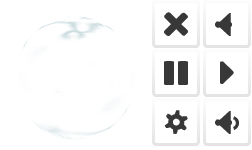
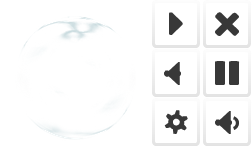
0.4.6 解决了按钮无法点击的问题

diff --git a/bin/js/ui/layaUI.max.all.js b/bin/js/ui/layaUI.max.all.js
@@ -22,7 +22,7 @@ var ui;
             _super.prototype.createChildren.call(this);
             this.createView(ui.EndViewUI.uiView);
         };
-        EndViewUI.uiView = { "type": "View", "props": { "y": 0, "x": 0, "width": 800, "height": 600 }, "child": [{ "type": "Image", "props": { "y": 0, "x": 0, "width": 800, "var": "backgroundView", "skin": "ui/background/EndBackGround.jpg", "height": 600 }, "child": [{ "type": "Box", "props": { "y": 150, "x": 250, "width": 300, "visible": false, "var": "scoreView", "height": 60 }, "child": [{ "type": "Clip", "props": { "y": 16, "x": 246, "width": 30, "skin": "ui/else/clip_number.png", "name": "item3", "height": 40, "clipX": 10 } }, { "type": "Clip", "props": { "y": 16, "x": 202, "width": 30, "skin": "ui/else/clip_number.png", "name": "item2", "height": 40, "clipX": 10 } }, { "type": "Clip", "props": { "y": 16, "x": 157, "width": 30, "skin": "ui/else/clip_number.png", "name": "item1", "index": 0, "height": 40, "clipX": 10 } }, { "type": "Text", "props": { "y": 15, "x": 0, "width": 150, "valign": "middle", "text": "Score:", "height": 40, "fontSize": 40, "font": "SimSun", "color": "#ffff00", "bold": true, "alpha": 0.7, "align": "left" } }] }, { "type": "Image", "props": { "y": 308, "x": 60, "width": 100, "var": "startButton", "skin": "ui/button/SelectButton.png", "height": 100, "alpha": 1 }, "child": [{ "type": "Text", "props": { "y": 23, "x": 24, "width": 50, "text": "始", "strokeColor": "#000000", "overflow": "hidden", "height": 50, "fontSize": 40, "font": "Microsoft YaHei", "color": "#ffffff", "bold": true, "align": "center" } }] }, { "type": "Image", "props": { "y": 451, "x": 61, "width": 100, "var": "rankButton", "skin": "ui/button/SelectButton.png", "height": 100 }, "child": [{ "type": "Text", "props": { "y": 26, "x": 24, "width": 50, "text": "排", "overflow": "hidden", "height": 50, "fontSize": 40, "font": "Microsoft YaHei", "color": "#ffffff", "bold": true, "align": "center" } }] }] }] };
+        EndViewUI.uiView = { "type": "View", "props": { "y": 0, "x": 0, "width": 800, "height": 600 }, "child": [{ "type": "Image", "props": { "y": 0, "x": 0, "width": 800, "var": "backgroundView", "skin": "ui/background/EndBackGround.jpg", "mouseThrough": true, "height": 600, "disabled": false }, "child": [{ "type": "Image", "props": { "y": 430, "x": 50, "width": 100, "visible": true, "var": "rankButton", "skin": "ui/button/SelectButton.png", "mouseEnabled": true, "hitTestPrior": true, "height": 100, "disabled": false }, "child": [{ "type": "Text", "props": { "y": 26, "x": 24, "width": 50, "text": "排", "overflow": "hidden", "height": 50, "fontSize": 40, "font": "Microsoft YaHei", "color": "#ffffff", "bold": true, "align": "center" } }] }, { "type": "Image", "props": { "y": 300, "x": 50, "width": 100, "visible": true, "var": "startButton", "skin": "ui/button/SelectButton.png", "mouseEnabled": true, "hitTestPrior": true, "height": 100, "disabled": false, "alpha": 1 }, "child": [{ "type": "Text", "props": { "y": 23, "x": 24, "width": 50, "text": "始", "strokeColor": "#000000", "overflow": "hidden", "height": 50, "fontSize": 40, "font": "Microsoft YaHei", "color": "#ffffff", "bold": true, "align": "center" } }] }, { "type": "Box", "props": { "y": 150, "x": 250, "width": 300, "visible": false, "var": "scoreView", "height": 60 }, "child": [{ "type": "Clip", "props": { "y": 16, "x": 246, "width": 30, "skin": "ui/else/clip_number.png", "name": "item3", "height": 40, "clipX": 10 } }, { "type": "Clip", "props": { "y": 16, "x": 202, "width": 30, "skin": "ui/else/clip_number.png", "name": "item2", "height": 40, "clipX": 10 } }, { "type": "Clip", "props": { "y": 16, "x": 157, "width": 30, "skin": "ui/else/clip_number.png", "name": "item1", "index": 0, "height": 40, "clipX": 10 } }, { "type": "Text", "props": { "y": 15, "x": 0, "width": 150, "valign": "middle", "text": "Score:", "height": 40, "fontSize": 40, "font": "SimSun", "color": "#ffff00", "bold": true, "alpha": 0.7, "align": "left" } }] }] }] };
         return EndViewUI;
     }(View));
     ui.EndViewUI = EndViewUI;

diff --git a/src/ui/layaUI.max.all.ts b/src/ui/layaUI.max.all.ts
@@ -4,11 +4,11 @@ import Dialog=laya.ui.Dialog;
 module ui {
     export class EndViewUI extends View {
 		public backgroundView:Laya.Image;
-		public scoreView:Laya.Box;
-		public startButton:Laya.Image;
 		public rankButton:Laya.Image;
+		public startButton:Laya.Image;
+		public scoreView:Laya.Box;
 
-        public static  uiView:any ={"type":"View","props":{"y":0,"x":0,"width":800,"height":600},"child":[{"type":"Image","props":{"y":0,"x":0,"width":800,"var":"backgroundView","skin":"ui/background/EndBackGround.jpg","height":600},"child":[{"type":"Box","props":{"y":150,"x":250,"width":300,"visible":false,"var":"scoreView","height":60},"child":[{"type":"Clip","props":{"y":16,"x":246,"width":30,"skin":"ui/else/clip_number.png","name":"item3","height":40,"clipX":10}},{"type":"Clip","props":{"y":16,"x":202,"width":30,"skin":"ui/else/clip_number.png","name":"item2","height":40,"clipX":10}},{"type":"Clip","props":{"y":16,"x":157,"width":30,"skin":"ui/else/clip_number.png","name":"item1","index":0,"height":40,"clipX":10}},{"type":"Text","props":{"y":15,"x":0,"width":150,"valign":"middle","text":"Score:","height":40,"fontSize":40,"font":"SimSun","color":"#ffff00","bold":true,"alpha":0.7,"align":"left"}}]},{"type":"Image","props":{"y":308,"x":60,"width":100,"var":"startButton","skin":"ui/button/SelectButton.png","height":100,"alpha":1},"child":[{"type":"Text","props":{"y":23,"x":24,"width":50,"text":"始","strokeColor":"#000000","overflow":"hidden","height":50,"fontSize":40,"font":"Microsoft YaHei","color":"#ffffff","bold":true,"align":"center"}}]},{"type":"Image","props":{"y":451,"x":61,"width":100,"var":"rankButton","skin":"ui/button/SelectButton.png","height":100},"child":[{"type":"Text","props":{"y":26,"x":24,"width":50,"text":"排","overflow":"hidden","height":50,"fontSize":40,"font":"Microsoft YaHei","color":"#ffffff","bold":true,"align":"center"}}]}]}]};
+        public static  uiView:any ={"type":"View","props":{"y":0,"x":0,"width":800,"height":600},"child":[{"type":"Image","props":{"y":0,"x":0,"width":800,"var":"backgroundView","skin":"ui/background/EndBackGround.jpg","mouseThrough":true,"height":600,"disabled":false},"child":[{"type":"Image","props":{"y":430,"x":50,"width":100,"visible":true,"var":"rankButton","skin":"ui/button/SelectButton.png","mouseEnabled":true,"hitTestPrior":true,"height":100,"disabled":false},"child":[{"type":"Text","props":{"y":26,"x":24,"width":50,"text":"排","overflow":"hidden","height":50,"fontSize":40,"font":"Microsoft YaHei","color":"#ffffff","bold":true,"align":"center"}}]},{"type":"Image","props":{"y":300,"x":50,"width":100,"visible":true,"var":"startButton","skin":"ui/button/SelectButton.png","mouseEnabled":true,"hitTestPrior":true,"height":100,"disabled":false,"alpha":1},"child":[{"type":"Text","props":{"y":23,"x":24,"width":50,"text":"始","strokeColor":"#000000","overflow":"hidden","height":50,"fontSize":40,"font":"Microsoft YaHei","color":"#ffffff","bold":true,"align":"center"}}]},{"type":"Box","props":{"y":150,"x":250,"width":300,"visible":false,"var":"scoreView","height":60},"child":[{"type":"Clip","props":{"y":16,"x":246,"width":30,"skin":"ui/else/clip_number.png","name":"item3","height":40,"clipX":10}},{"type":"Clip","props":{"y":16,"x":202,"width":30,"skin":"ui/else/clip_number.png","name":"item2","height":40,"clipX":10}},{"type":"Clip","props":{"y":16,"x":157,"width":30,"skin":"ui/else/clip_number.png","name":"item1","index":0,"height":40,"clipX":10}},{"type":"Text","props":{"y":15,"x":0,"width":150,"valign":"middle","text":"Score:","height":40,"fontSize":40,"font":"SimSun","color":"#ffff00","bold":true,"alpha":0.7,"align":"left"}}]}]}]};
         constructor(){ super()}
         createChildren():void {
         			View.regComponent("Text",laya.display.Text);

diff --git a/bin/js/items/BlackHole.js b/bin/js/items/BlackHole.js
@@ -18,8 +18,8 @@ var BlackHole = /** @class */ (function (_super) {
     //绘制item
     BlackHole.prototype.drawItem = function () {
         this.item.loadAnimation("GameAnimation/BlackHole.ani");
-        this.item.scaleX = this._width / 60;
-        this.item.scaleY = this._height / 60;
+        this.item.scaleX = this._width / 100;
+        this.item.scaleY = this._height / 100;
         this.item.play();
     };
     //判断球是否与黑洞相撞，0为不相撞，1为相撞

diff --git a/bin/js/view/EndView.js b/bin/js/view/EndView.js
@@ -18,9 +18,7 @@ var EndView = /** @class */ (function (_super) {
     __extends(EndView, _super);
     //构造函数
     function EndView() {
-        var _this = _super.call(this) || this;
-        _this.loadImage(Game.endBackGroundImage);
-        return _this;
+        return _super.call(this) || this;
     }
     //结束界面还原初始化设置
     EndView.prototype.init = function () {

diff --git a/bin/js/view/StartView.js b/bin/js/view/StartView.js
@@ -13,9 +13,7 @@ var StartView = /** @class */ (function (_super) {
     __extends(StartView, _super);
     //构造函数
     function StartView() {
-        var _this = _super.call(this) || this;
-        _this.loadImage(Game.startBackGroundImage, 0, 0, 800, 600);
-        return _this;
+        return _super.call(this) || this;
     }
     return StartView;
 }(ui.StartViewUI));

diff --git a/src/items/BlackHole.ts b/src/items/BlackHole.ts
@@ -10,8 +10,8 @@ class BlackHole extends Barrier<Laya.Animation>{
     public drawItem():void
     {
         this.item.loadAnimation("GameAnimation/BlackHole.ani");
-        this.item.scaleX=this._width/60;
-        this.item.scaleY=this._height/60;
+        this.item.scaleX=this._width/100;
+        this.item.scaleY=this._height/100;
         this.item.play();
     }
 

diff --git a/src/GameMain.ts b/src/GameMain.ts
@@ -67,7 +67,7 @@ class GameMain{
 
         GameMain.viewStack.addItem(GameMain.startView);
         GameMain.viewStack.addItem(GameMain.gameView);
-        GameMain.viewStack.addItem(GameMain.endView);       
+        GameMain.viewStack.addItem(GameMain.endView);  
 
         this.createEvents();
     }

diff --git a/src/view/EndView.ts b/src/view/EndView.ts
@@ -9,7 +9,6 @@ class EndView extends ui.EndViewUI{
     constructor()
     {
         super();
-        this.loadImage(Game.endBackGroundImage);
     }
 
     //结束界面还原初始化设置

diff --git a/src/view/StartView.ts b/src/view/StartView.ts
@@ -4,7 +4,6 @@ class StartView extends ui.StartViewUI{
     constructor()
     {
         super();
-        this.loadImage(Game.startBackGroundImage,0,0,800,600);
     }
 
 }
